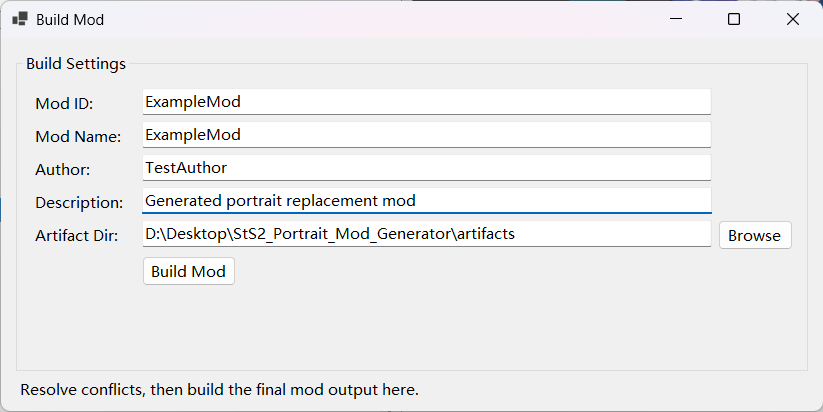
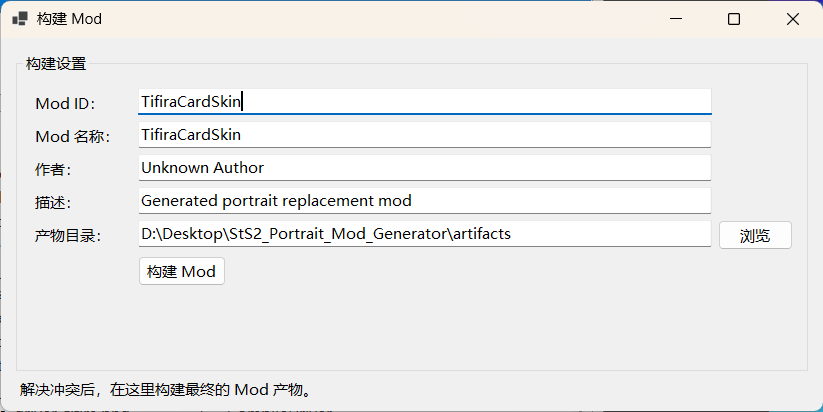
Update documents

diff --git a/README.md b/README.md
@@ -11,6 +11,8 @@
 - 会话级合并：多个包中匹配到同一 `cardId` 的候选会自动归入冲突组。
 - 主映射界面用于查看候选、手动改派 `cardId`、或丢弃噪声资源。
 - 冲突界面用于在多个候选之间为每一个争议 `cardId` 选出最终来源。
+- 高级设置窗口：对单张卡另行指定 `uiMode`、`frame`、`bannerTexture` 等模板可选字段，保存后随 `card_replacements.json` 一起产出。
+- 顶部菜单栏集成常用操作，支持在"视图 → 语言"中运行时切换中文 / English。
 - 构建界面填写 Mod 元信息后，自动完成模板实例化、复制图片、写入 `card_replacements.json`，并调用 `dotnet build` 输出最终 Mod 产物。
 
 ## 截图
@@ -23,6 +25,10 @@
 
 ![Conflict Review](docs/images/conflict_window.png)
 
+高级设置窗口，用于为当前选中的卡额外填写 `uiMode`、`frame` 等可选字段：
+
+![Advanced Settings](docs/images/advance_window.png)
+
 构建界面（Build Mod），用于填写 Mod 元信息并触发最终构建：
 
 ![Build Mod](docs/images/build_window.png)
@@ -32,8 +38,9 @@
 1. 启动 [PortraitModGenerator.Gui](tools/PortraitModGenerator.Gui/)。
 2. 点击 **Import PCK**（或把 `.pck` 拖到窗口中）将包加入当前会话，每个包都会独立完成 recover、scan、analyze。
 3. 在主映射界面里逐项确认候选：保留自动匹配、为未匹配资源手动指定 `cardId`、把无关资源标记为 discarded。
-4. 点击 **Open Conflicts**，处理多个包对同一 `cardId` 都给出候选的情况；每组冲突有一个默认选中项，可手动改写。
-5. 点击 **Build Mod**，填写 Mod 元信息（id、name、author、description）和产物输出目录，再点 **Build Mod** 生成最终的 `.dll` / `.json` / `.pck`。
+4. 如需调整单张卡的边框 / 横幅 / uiMode 等，点详情面板里的 **高级设置...**，把对应 `res://...` 路径填入即可；留空的字段不会写入产物。
+5. 点击 **Open Conflicts**，处理多个包对同一 `cardId` 都给出候选的情况；每组冲突有一个默认选中项，可手动改写。
+6. 点击 **Build Mod**，填写 Mod 元信息（id、name、author、description）和产物输出目录，再点 **Build Mod** 生成最终的 `.dll` / `.json` / `.pck`。
 
 ## 仓库结构
 
